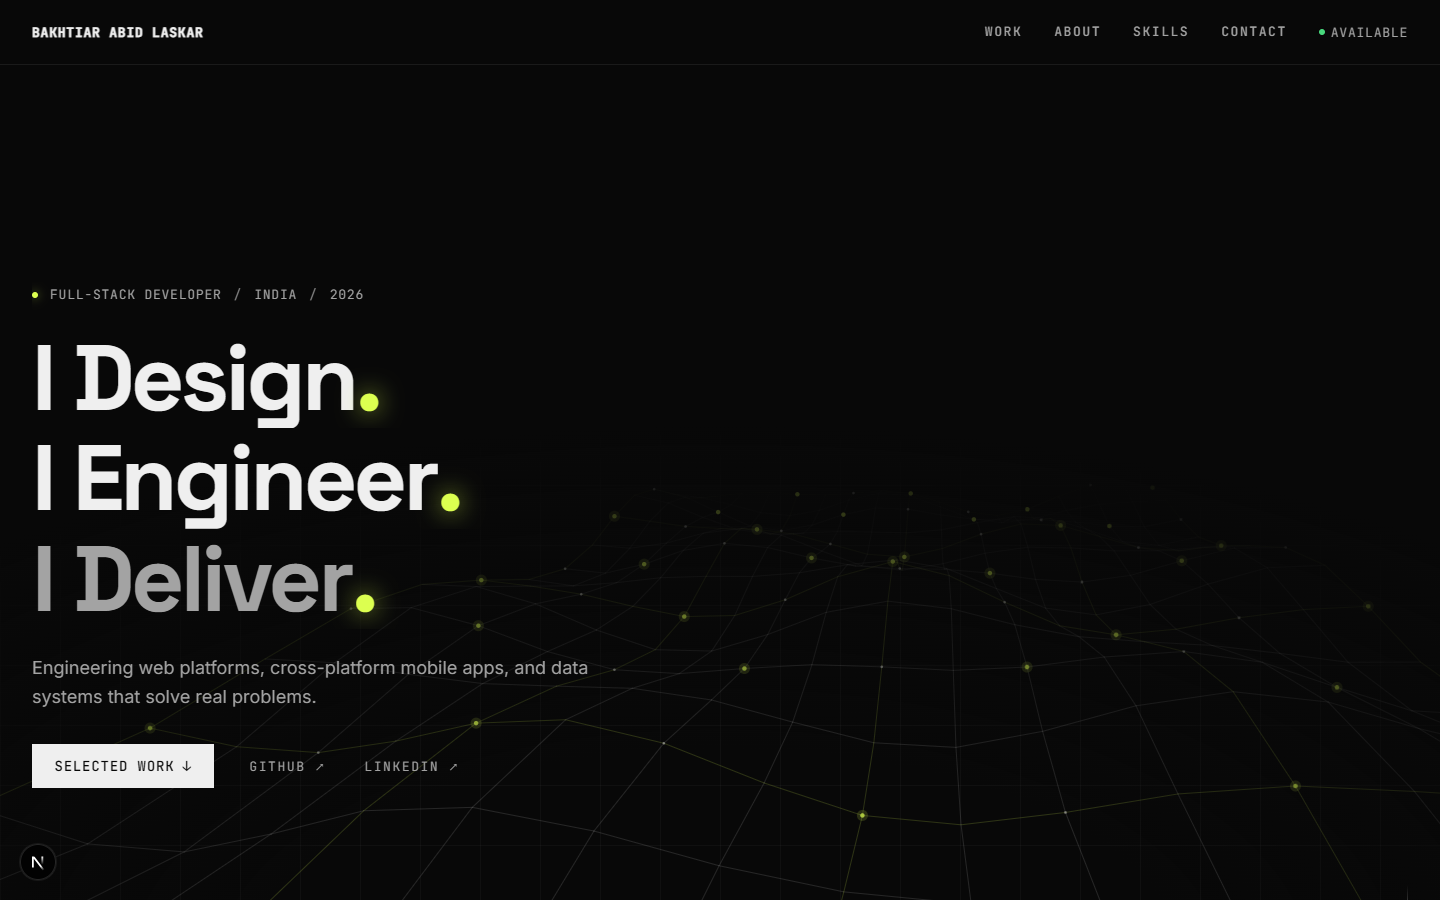
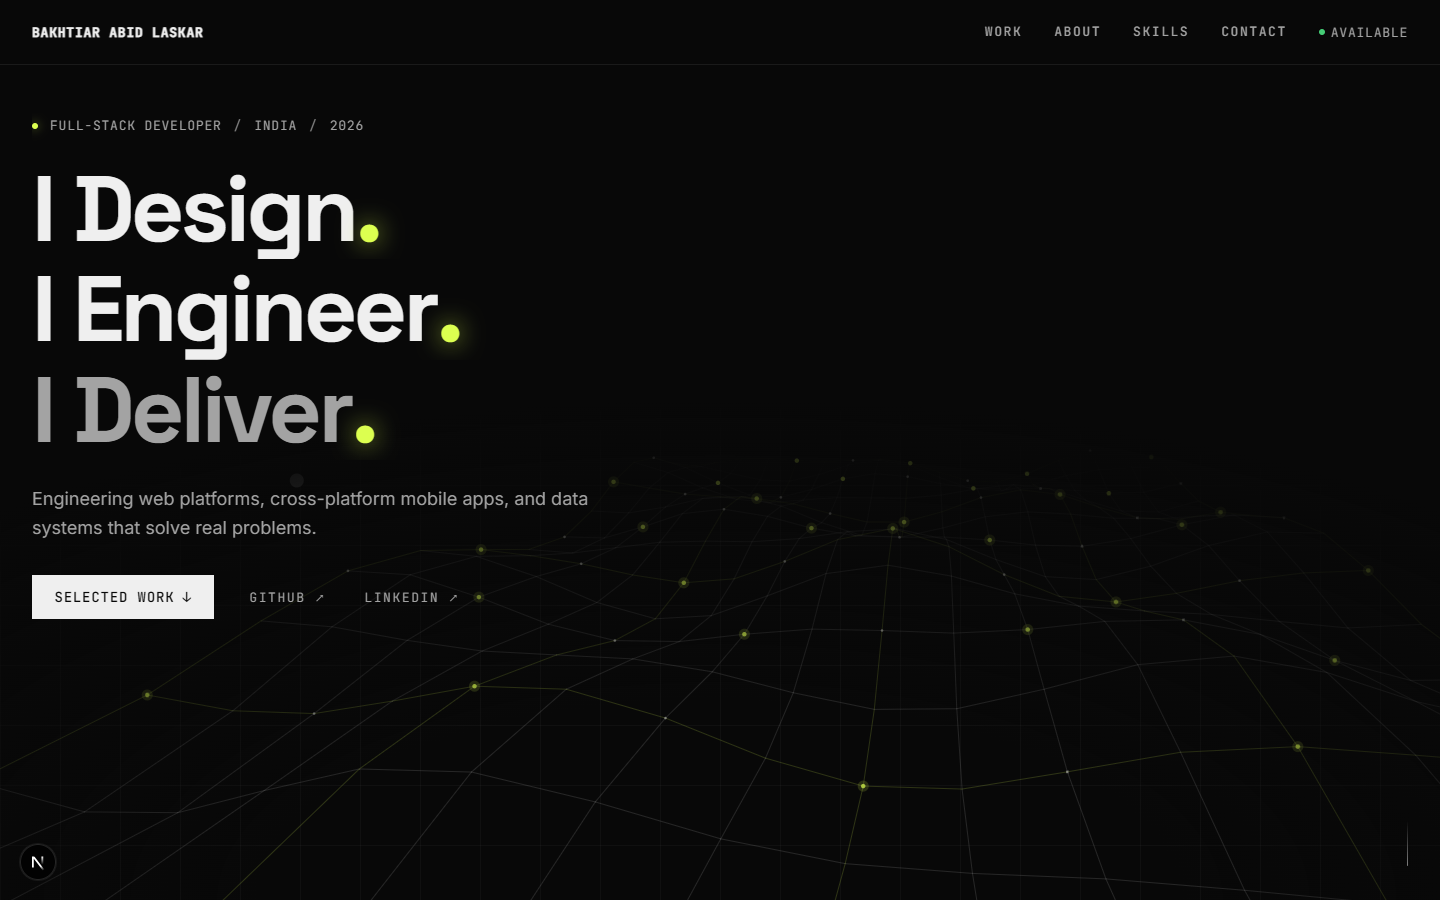
fix(hero): eliminate excess space between sticky header and content on mobile and desktop

diff --git a/src/components/Hero/Hero.module.css b/src/components/Hero/Hero.module.css
@@ -1,10 +1,10 @@
 .section {
   position: relative;
-  min-height: 100svh;
+  min-height: calc(100svh - 64px);
   display: flex;
   flex-direction: column;
-  justify-content: center;
-  padding: calc(64px + var(--space-4)) var(--space-8) var(--space-10);
+  justify-content: flex-start;
+  padding: clamp(var(--space-8), 6vh, var(--space-12)) var(--space-8) var(--space-10);
   overflow: hidden;
   background-color: var(--color-bg);
 }
@@ -216,9 +216,9 @@
 /* Responsive */
 @media (max-width: 768px) {
   .section {
-    padding: calc(64px + var(--space-6)) var(--space-5) var(--space-10);
+    padding: var(--space-5) var(--space-5) var(--space-8);
     justify-content: flex-start;
-    min-height: 100svh;
+    min-height: calc(100svh - 64px);
   }
 
   .headline {
@@ -283,8 +283,8 @@
 
 @media (max-width: 480px) {
   .section {
-    padding-top: calc(64px + var(--space-4));
-    padding-bottom: var(--space-8);
+    padding-top: var(--space-4);
+    padding-bottom: var(--space-6);
     justify-content: flex-start;
   }
 
